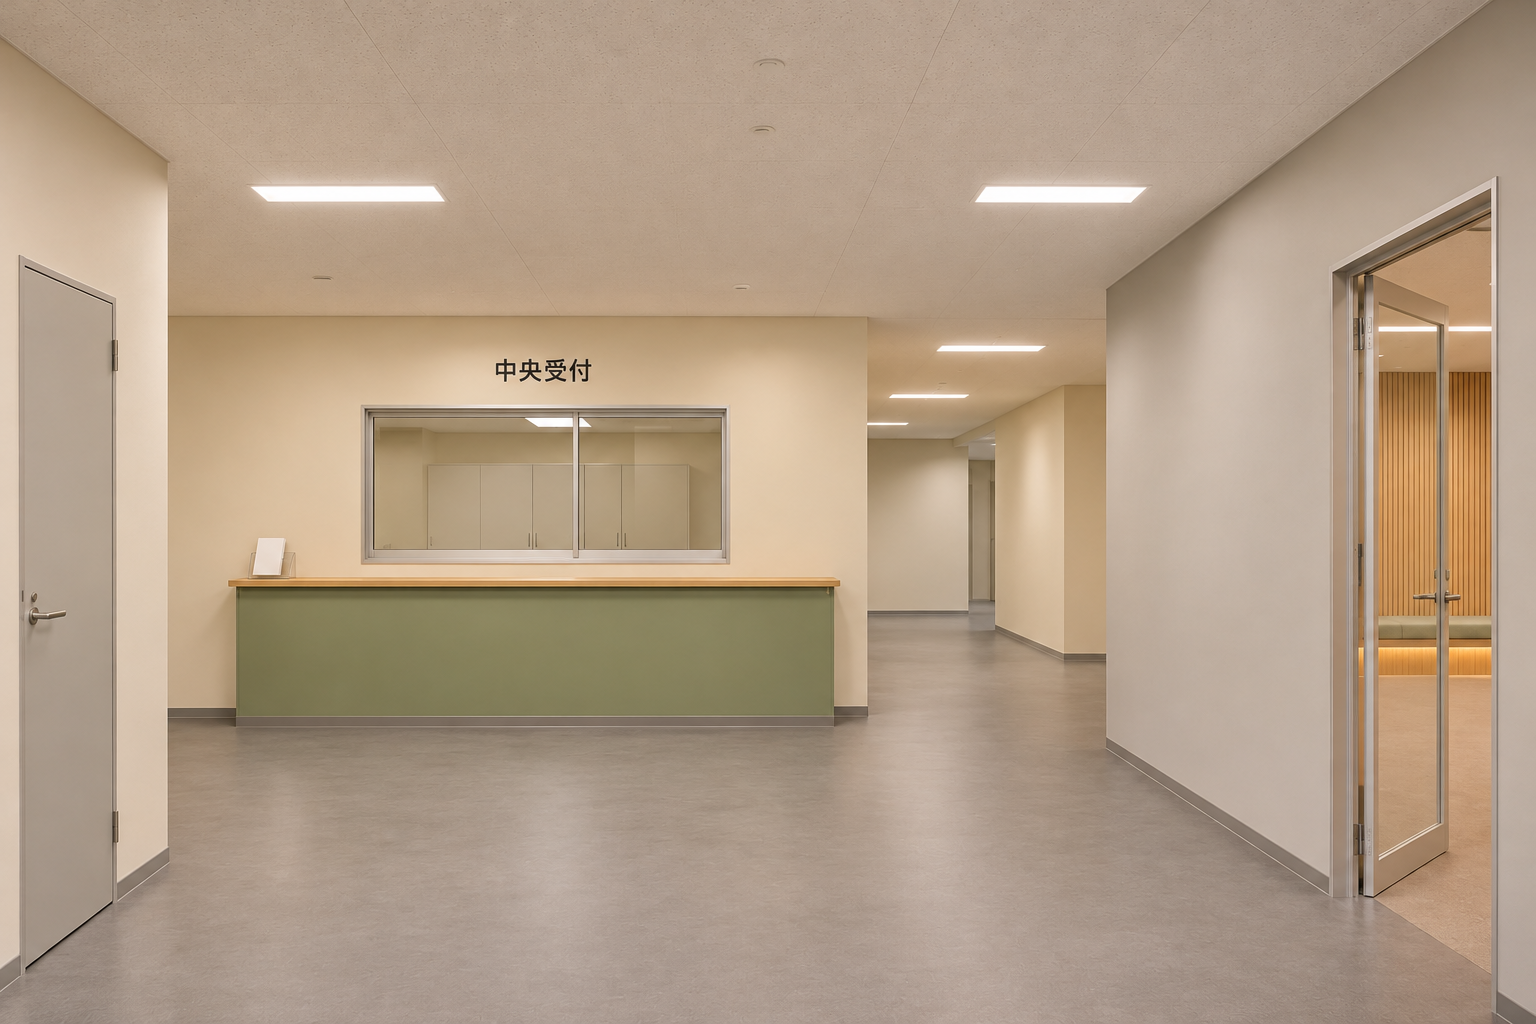
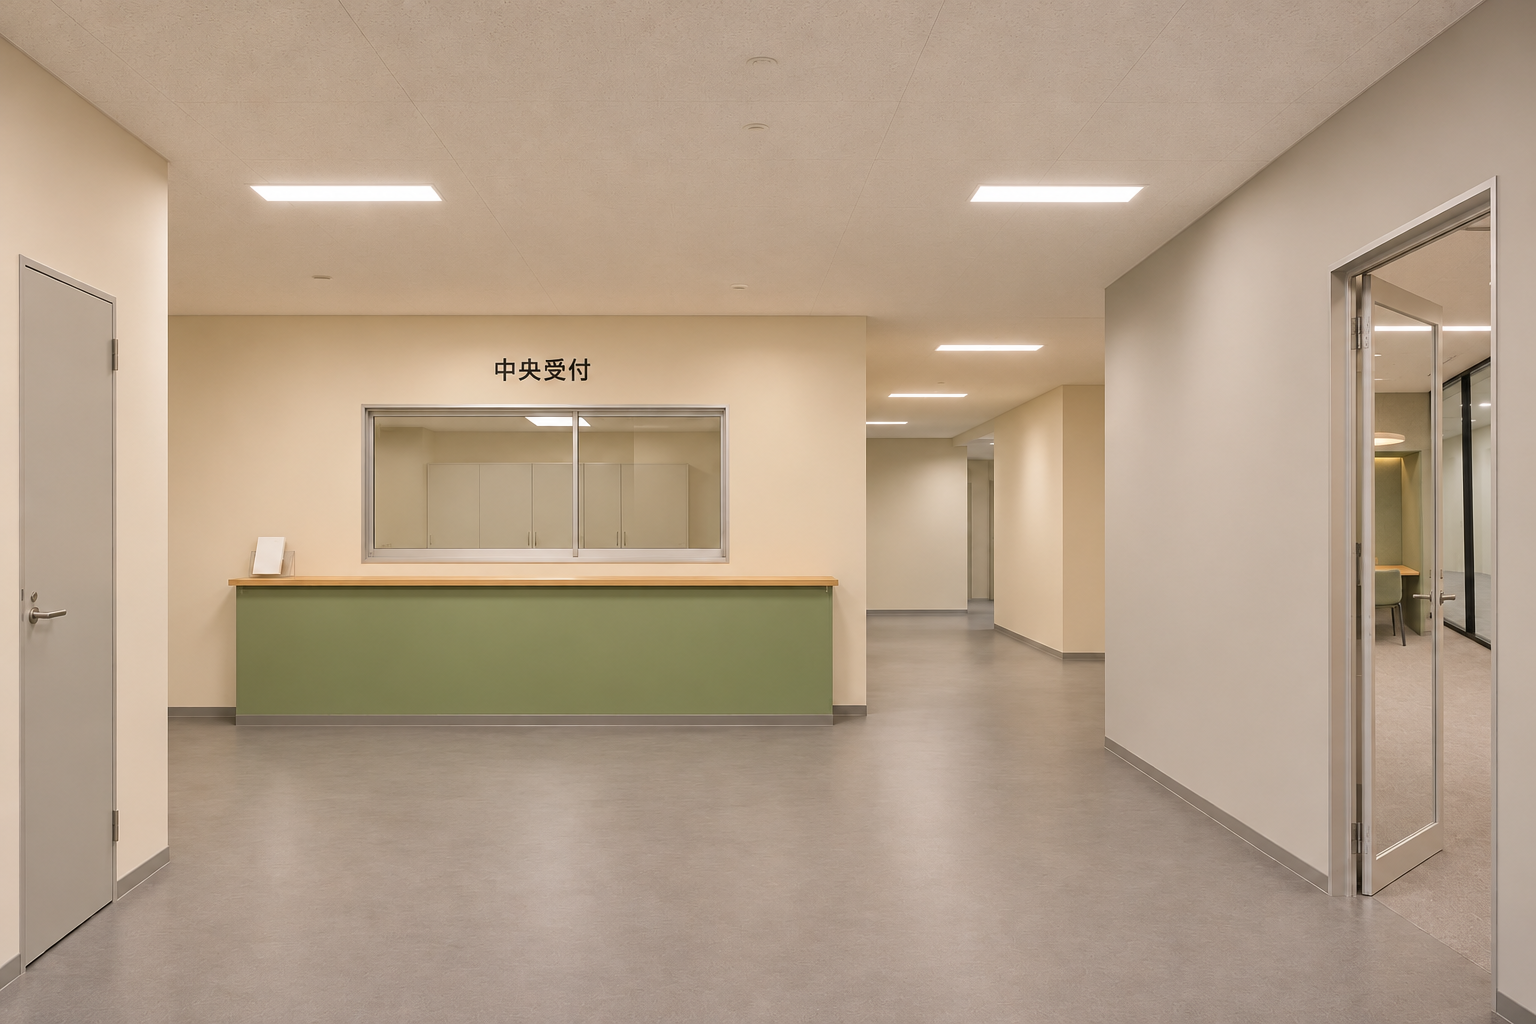
Match the reception doorway view to the coworking layout

diff --git a/docs/pv-storyboard.md b/docs/pv-storyboard.md
@@ -47,3 +47,5 @@ A4-08に合わせて受付写真を差し替え、確認用MP4を書き出した
 公開サイトと前版を知る別担当が、390px幅・無音・等速で新旧を確認した。前版では工房が映るまでカフェ付きの交流施設に見え、構想図の小見出しを読み落とすと実景に見える可能性があった。改訂版では冒頭の「仕事とものづくりの拠点」、4階ラウンジ、工房の順で用途が分かり、月面の画は構想図と読めた。ラウンジ前の展示が常設にも見えるという指摘を受け、模型のカットに「月の企画展示」と入れた。
 
 作者側で最終MP4（1280×720、30.05秒）を390px幅・等速で終端まで再生した。デコード画像の7.30秒で個人席と打ち合わせ卓、17.40秒で「4階 ラウンジ前」と「月の企画展示」、19.65秒で構想図の表記を確認した。24.30秒、24.95秒、25.70秒を比較し、受付場所と受付時間を保ったまま右下だけが「17:14 呼出」に変わって戻る。音声の該当区間は約10.9dB下がり、その後は直前との差が約0.1dBだった。
+
+受付写真の扉越しの視界を修正した後、同じ素材でMP4を書き出した。今回は1280×720、30.032秒。符号化済みの映像から21.9秒の画を読み出し、「4階 中央受付」の字幕、写真の受付表示、右手の入口と、その奥の内部ガラスが写ることを確認した。音・カット時刻・掲示の演出は変更していない。施設ページの写真はPC幅1440pxとスマートフォン幅390pxで確認した。
